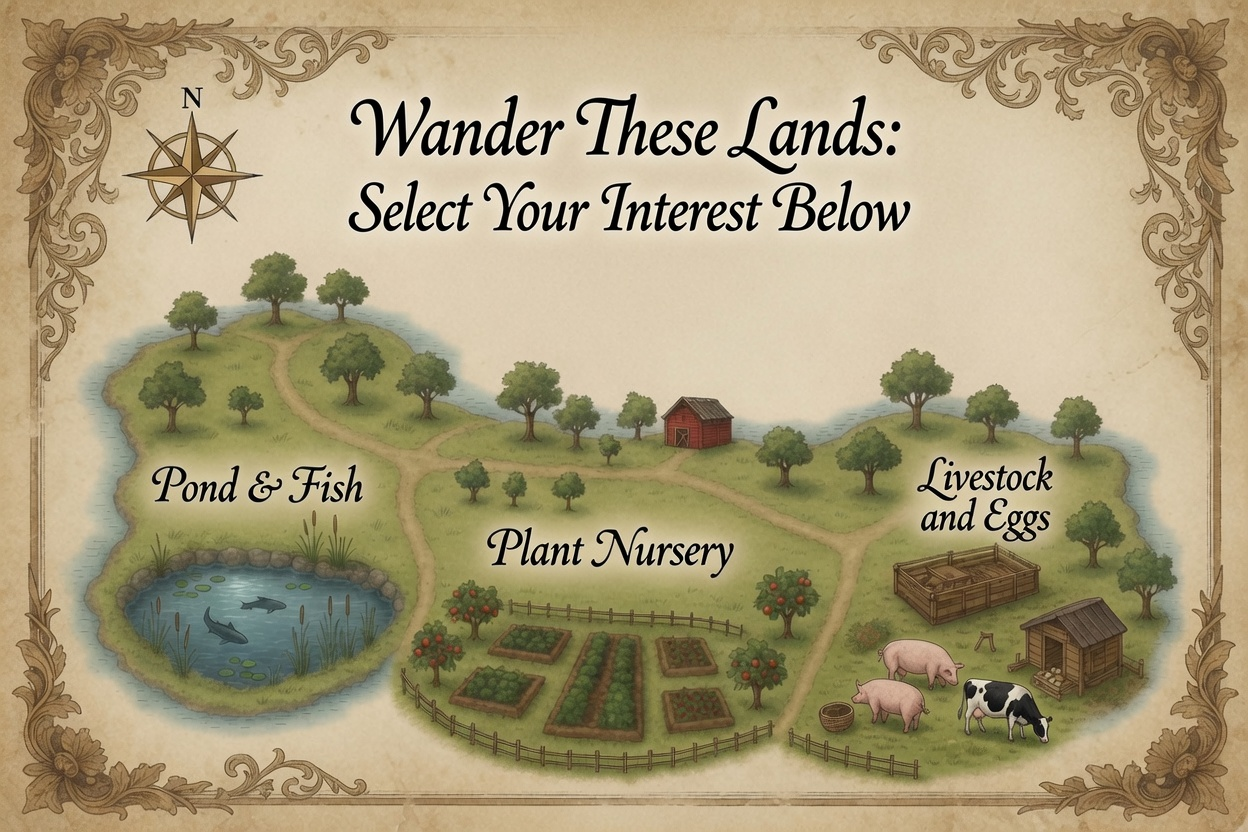
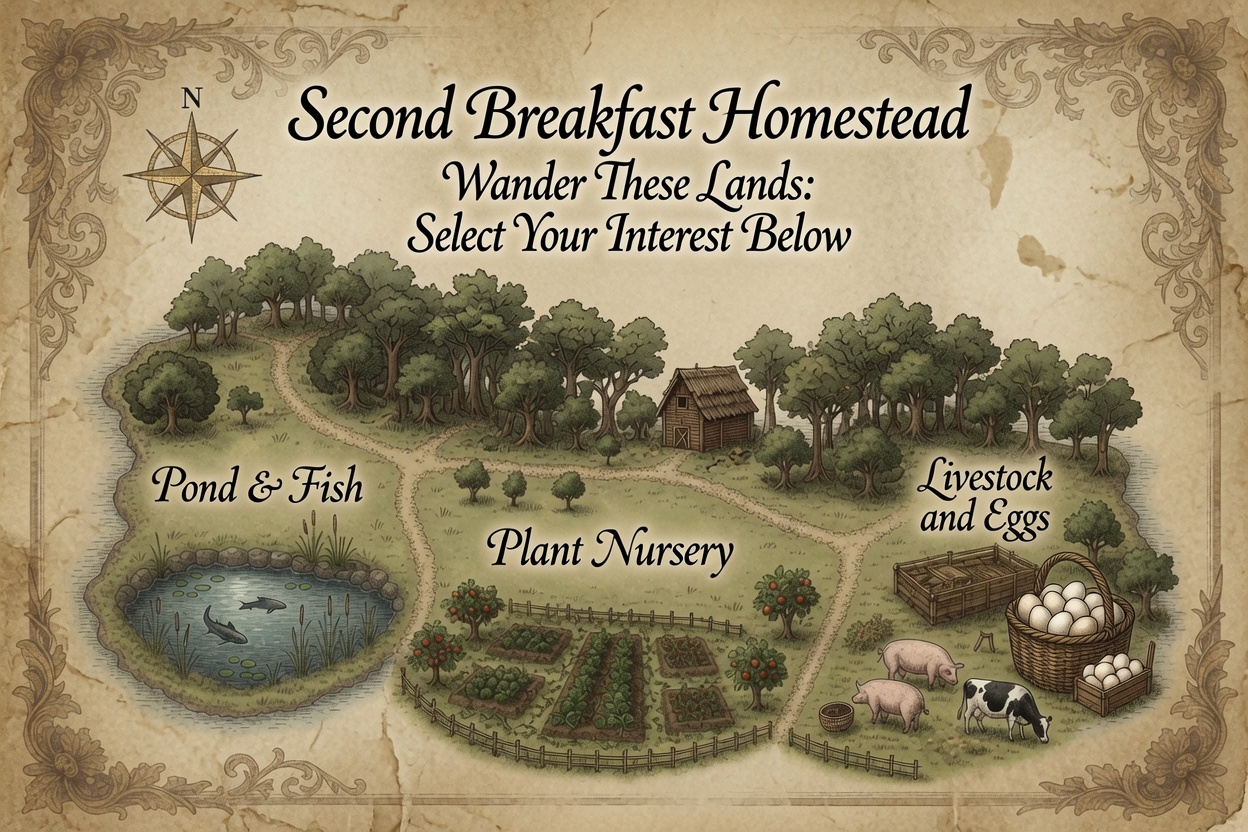
Swap map and background to user-provided images
- Replaced homestead-map.jpg with new version (480KB, same aspect ratio)
- Switched pasture background from picsum URL to local pasture-bg.jpg (292KB)
- No more external image dependency for above-fold visuals

diff --git a/assets/css/style.css b/assets/css/style.css
@@ -281,7 +281,7 @@ a:hover { color: var(--color-primary-dark); }
 .top-block {
   background:
     linear-gradient(rgba(30, 22, 14, 0.72), rgba(36, 26, 16, 0.58)),
-    url('https://picsum.photos/seed/pasture/1600/800') center/cover no-repeat;
+    url('assets/images/pasture-bg.jpg') center/cover no-repeat;
   background-color: var(--color-dark);
 }
 